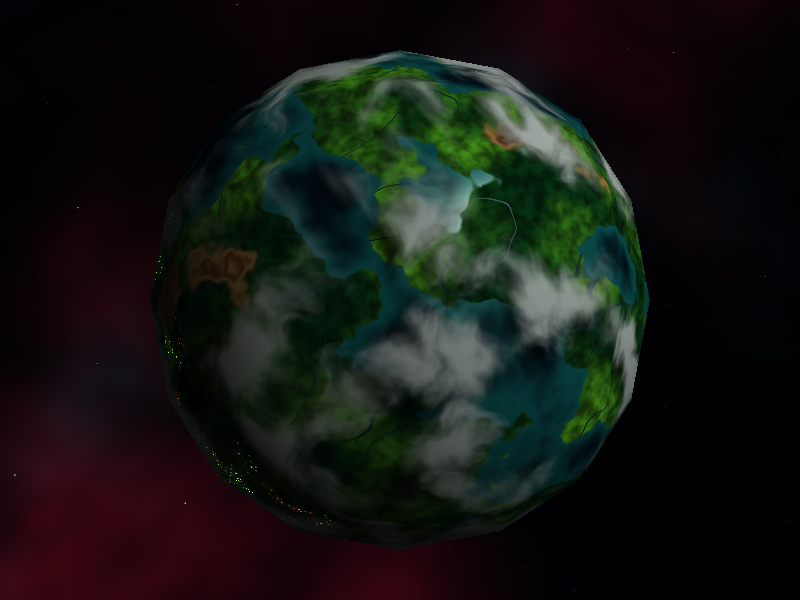
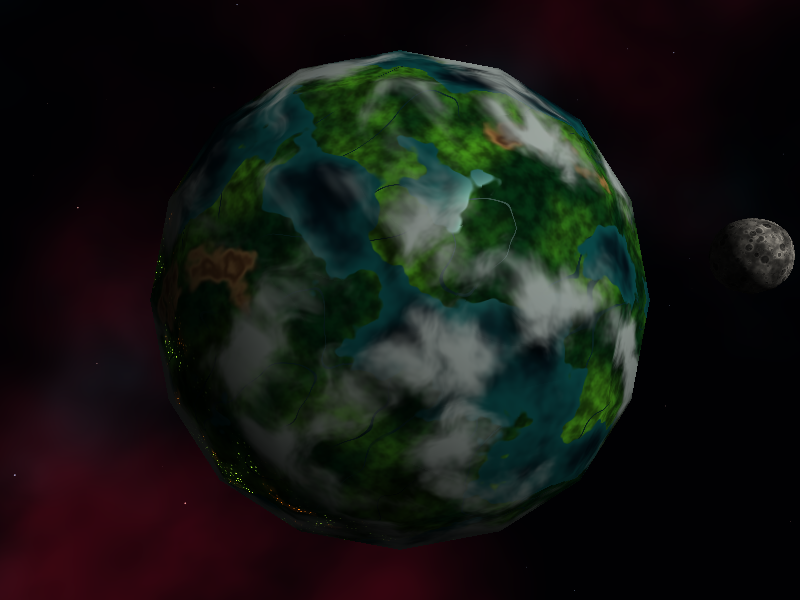
docs: document the moon and refresh captures

Changed region(s): [[0.9062, 0.36, 1.0, 0.48]]

diff --git a/README.md b/README.md
@@ -1,8 +1,9 @@
 # Lab 6: Planetas y estrellas con shaders
 
 Tres cuerpos celestes de un sistema solar de fantasía, dibujados con un software
-renderer en CPU. Los tres usan la misma `sphere.obj`, sin modificar sus vértices y
-sin texturas: toda la apariencia sale de fragment shaders procedurales.
+renderer en CPU, más la luna de la jungla. Todos usan la misma `sphere.obj`, sin
+modificar sus vértices y sin texturas: toda la apariencia sale de fragment shaders
+procedurales.
 
 | Jungla (rocoso) | Mundo tóxico (gaseoso) | Sol rojo (estrella) |
 |---|---|---|
@@ -146,6 +147,34 @@ gruesos y cercanos, y 5 delgados que llegan más lejos.
 | `RING_COUNT` | `rings.rs` | 7 | Cantidad de anillos gruesos |
 | `THIN_RING_COUNT` | `rings.rs` | 5 | Cantidad de anillos delgados |
 | `RING_BRIGHTNESS` | `rings.rs` | 2.3 | Brillo de todos los anillos |
+
+### Luna de la jungla
+
+Una luna gris de roca con mares oscuros y cráteres, que orbita alrededor de la jungla.
+
+Archivos: `src/shaders/moon.rs` y `moon_model` en `src/main.rs`.
+
+No agrega ningún modelo: es la misma `sphere.obj`, dibujada una segunda vez con otra matriz
+que la escala y la traslada. El búfer de profundidad decide si pasa por delante del planeta
+o queda oculta detrás. Siempre le muestra la misma cara a la jungla.
+
+**Patrones y cómo se combinan**
+
+1. `fbm` da el tono de la roca, y un ruido de baja frecuencia oscurece los mares.
+2. Los cráteres (`craters`) se reparten en una cuadrícula con posición y tamaño al azar.
+   Oscurecen el fondo y aclaran el borde. Hay dos escalas superpuestas.
+3. Recibe la misma luz que el planeta.
+
+**Parámetros principales**
+
+| Constante | Archivo | Valor | Qué cambia |
+|---|---|---:|---|
+| `MOON_SCALE` | `main.rs` | 0.14 | Tamaño de la luna |
+| `MOON_ORBIT_RADIUS` | `main.rs` | 1.15 | Distancia a la jungla |
+| `MOON_ORBIT_SPEED` | `main.rs` | 0.25 | Velocidad de la órbita |
+| `MOON_ORBIT_TILT` | `main.rs` | 0.35 | Inclinación de la órbita |
+| `LARGE_CRATER_GRID` | `moon.rs` | 4 | Más alto da cráteres grandes más pequeños y numerosos |
+| `CRATER_CHANCE` | `moon.rs` | 0.55 | Fracción de celdas con cráter |
 
 ## Efectos implementados
 
